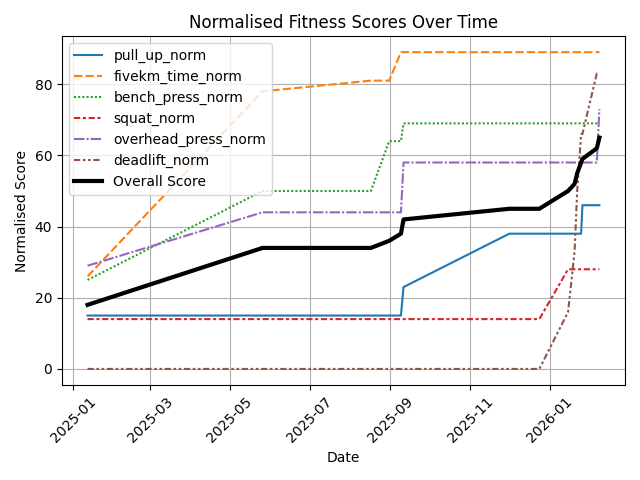
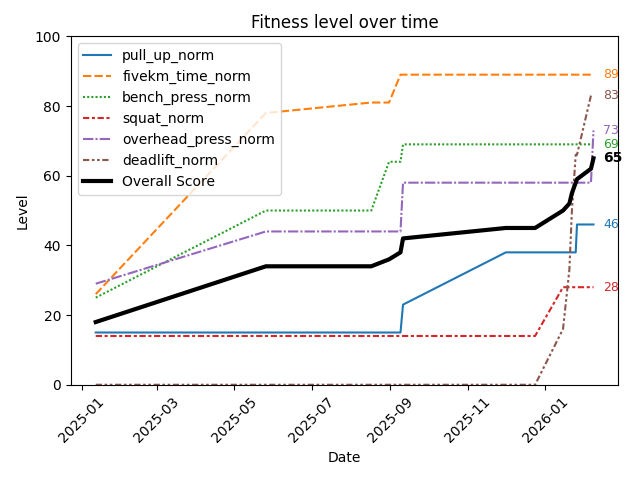
improve plot

diff --git a/fitness_track.py b/fitness_track.py
@@ -18,11 +18,11 @@ class FitnessTracker:
 
         for _, row in self.data.iterrows():
             pull_up_norm = self.calculate_normalise_score(row['pull_up'], 1, 14)
-            fivekm_time_norm = self.calculate_normalise_score(row['fivekm_time'], 32.0, 22.5)
+            fivekm_time_norm = self.calculate_normalise_score(row['fivekm_time'], 32, 22.5)
             bench_press_norm = self.calculate_normalise_score(row['bench_press'], 47, 98)
             squat_norm = self.calculate_normalise_score(row['squat'], 60, 130)
             overhead_press_norm = self.calculate_normalise_score(row['overhead_press'], 30, 64)
-            deadlift_norm = self.calculate_normalise_score(row['deadlift'], 90,150)
+            deadlift_norm = self.calculate_normalise_score(row['deadlift'], 90, 150)
 
             overall_score = self.calculate_average_scores(
                  pull_up_norm, fivekm_time_norm,
@@ -47,11 +47,10 @@ class FitnessTracker:
         data = results_df
         data['date'] = pd.to_datetime(
                 data['date'],
-                format='%d/%m/%Y',   # day/month/year
-                dayfirst=True        # extra safety; optional with the explicit format
+                format='%d/%m/%Y',
             )
         data.set_index('date', inplace=True)
-        sns.lineplot(
+        ax = sns.lineplot(
             data=data[['pull_up_norm',
                        'fivekm_time_norm',
                        'bench_press_norm',
@@ -62,12 +61,28 @@ class FitnessTracker:
                        )
 
         sns.lineplot(data=data['overall_score'], color='black', linewidth=3, label='Overall Score')
+        for line in ax.lines:
+            x_data = line.get_xdata()
+            y_data = line.get_ydata()
+            if len(x_data) > 0:
+                x = x_data[-1]
+                y = y_data[-1]
+                is_overall = line.get_label() == 'Overall Score'
+                ax.annotate(
+                    f'{y:.0f}',
+                    xy=(x, y),
+                    xytext=(7, 0),
+                    textcoords="offset points",
+                    color=line.get_color(),
+                    va="center",
+                    fontweight='bold' if is_overall else 'normal',
+                    fontsize=10 if is_overall else 9
+                )
 
-        plt.title('Normalised Fitness Scores Over Time')
+        plt.title('Fitness level over time')
         plt.xlabel('Date')
-        plt.ylabel('Normalised Score')
-
-        plt.grid()
+        plt.ylabel('Level')
+        plt.ylim(0, 100)
         plt.xticks(rotation=45)
         plt.tight_layout()
         plt.savefig('plots/fitness_score.png')
@@ -76,8 +91,6 @@ class FitnessTracker:
     def run(self):
         # process results
         results_df = self.process_results()
-        # plot result
-        print(results_df)
         self.plot_results(results_df)
 
 inp_file = 'input_pbs.csv'
